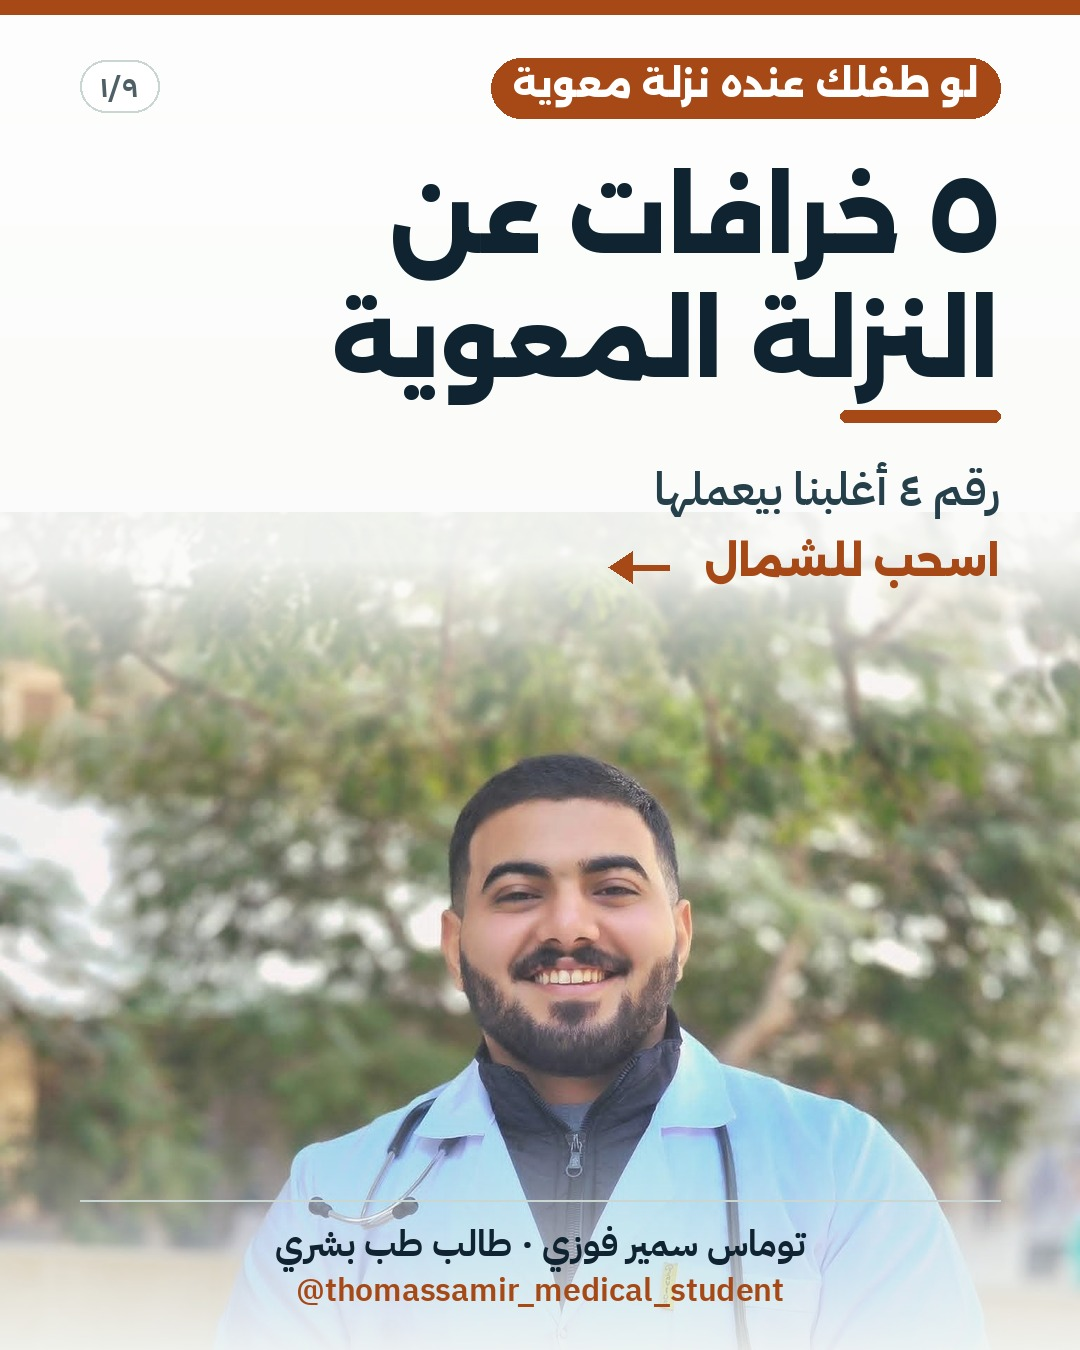
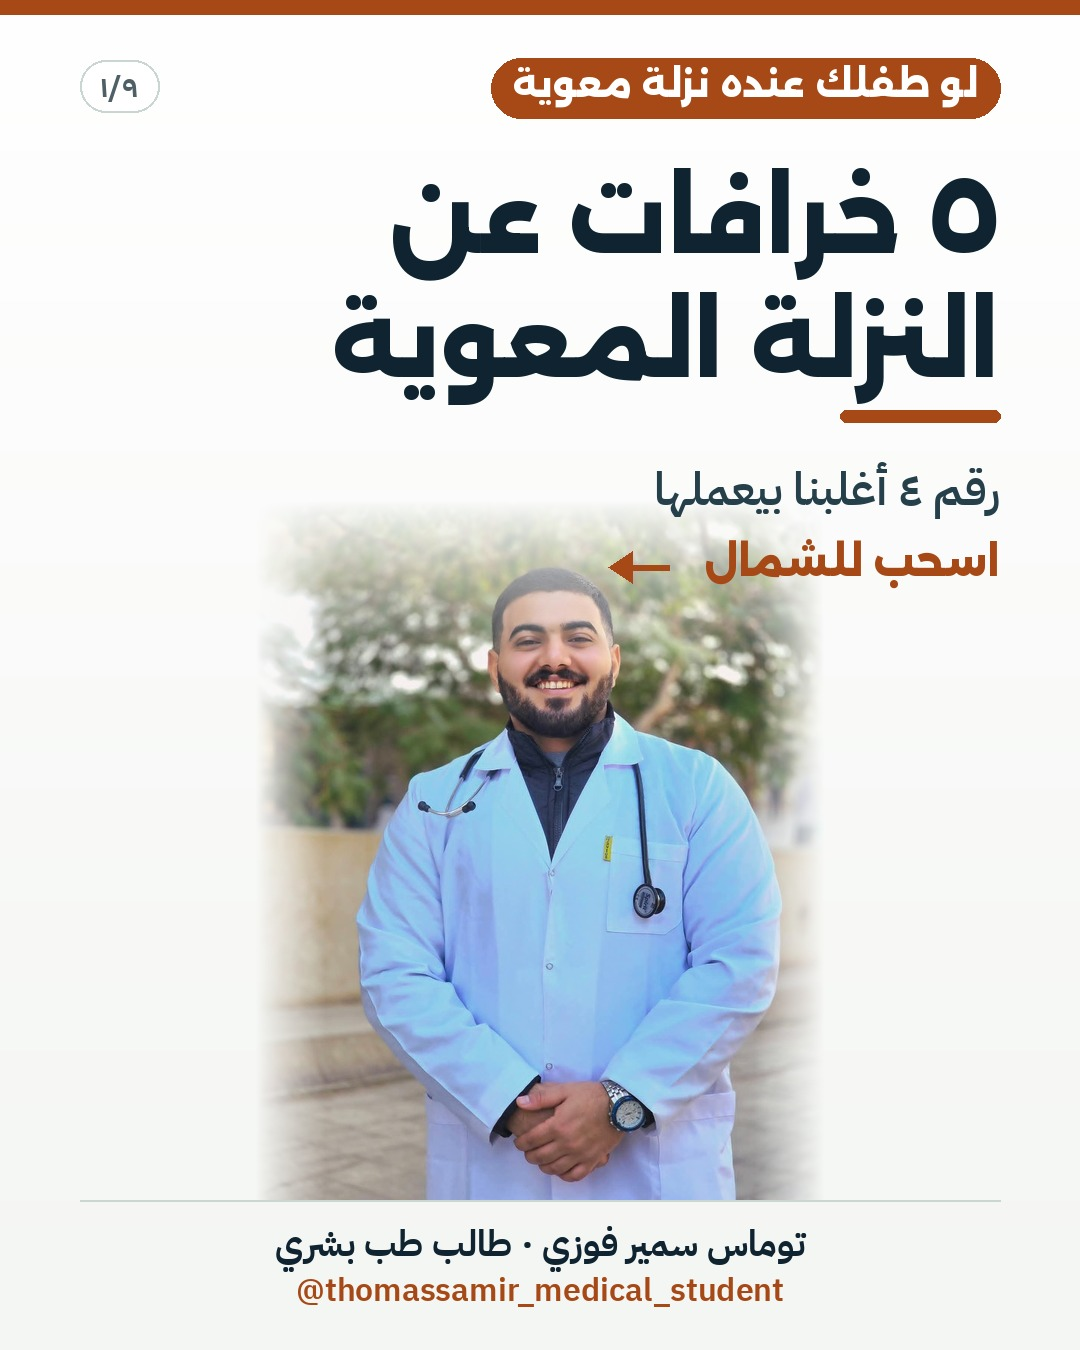
Classic cover shows the full photo (user feedback); re-render 2026-11-17
Claude-Session: https://claude.ai/code/session_017dDxhPjT8UjMzskDG5aLTi

diff --git a/tools/make_carousel.py b/tools/make_carousel.py
@@ -469,22 +469,29 @@ def cover_classic(s, i, n):
         d.line([(0, yy), (W, yy)], fill=mix(WHITE, PAPER, yy / H))
     ph = _photo()
     if ph is not None:
-        ph = ph.resize((W, int(ph.height * W / ph.width)), Image.LANCZOS)
-        layer = Image.new("RGB", (W, H), PAPER)
-        layer.paste(ph, (0, 900 - int(ph.height * 0.27)))
-        mask = Image.new("L", (W, H))
+        # FULL photo (user request 2026-11-16: "حاطين نص صورتي"): show Thomas from head to hands,
+        # scaled to fit the band between the text block and the footer, edges feathered into the ground.
+        top_y = int(os.environ.get("POST_COVER_PHOTO_TOP", "500"))
+        bot_y = H - 150
+        ph = ph.crop((0, int(ph.height * 0.08), ph.width, ph.height))
+        sc = (bot_y - top_y) / ph.height
+        pw, phh = int(ph.width * sc), bot_y - top_y
+        ph = ph.resize((pw, phh), Image.LANCZOS)
+        x0 = (W - pw) // 2
+        mask = Image.new("L", (pw, phh), 255)
         md = ImageDraw.Draw(mask)
-        for yy in range(H):
-            if yy < 560:
-                a = 238
-            elif yy < 760:
-                a = int(238 - (yy - 560) / 200 * 205)
-            elif yy < 1120:
-                a = 33
-            else:
-                a = int(33 + (yy - 1120) / 230 * 200)
-            md.line([(0, yy), (W, yy)], fill=a)
-        img = Image.composite(img, layer, mask)
+        fx, fy = 70, 170
+        for k in range(fx):
+            a = int(255 * k / fx)
+            md.line([(k, 0), (k, phh)], fill=a)
+            md.line([(pw - 1 - k, 0), (pw - 1 - k, phh)], fill=a)
+        top = Image.new("L", (pw, phh), 255)
+        tdr = ImageDraw.Draw(top)
+        for k in range(fy):
+            tdr.line([(0, k), (pw, k)], fill=int(255 * k / fy))
+        from PIL import ImageChops
+        mask = ImageChops.multiply(mask, top)
+        img.paste(ph, (x0, top_y), mask)
         d = ImageDraw.Draw(img)
     d.rectangle([0, 0, W, 14], fill=ACC)
     # counter pill (top-left) and kicker pill (top-right)

diff --git a/performance.md b/performance.md
@@ -90,3 +90,4 @@ Shares are not returned by Metricool (null). The 15 Nov flu-vaccine quiz (sent f
 - 2026-11-14 run (for Sun 15 Nov): 8 posts in the 14-day window. Best recent: acne myth-vs-fact (youth, Thu 21:08) 14.0 on 86 reach; diabetic-foot (older) now has **3 comments** (12.8) — the first older-audience comments since October, so habit/number asks work for older too; measles timeline 12.6 with a follow. Kids-diabetes (posted 00:19) and the chest-pain post (14:11) are too new. Saves and shares are still zero for 3+ weeks. → Sun 15 Nov = older at 11:00 (reach slot), seasonal flu-vaccine quiz (MoH warned on 5 Nov about flu complications in older adults); experiment = question printed above each verdict + first data/bars 'مكنتش أعرف' slide to push saves.
 - 2026-11-15 run (for Mon 16 Nov): 9 posts in the 14-day window. Best recent: youth acne myths at Thu 21:10 (14.1, best like rate 14%); measles timeline 12.4 with a follow; diabetic foot keeps the only recent comments (3). After-midnight posts (00:20, 01:19, 01:20) and the Saturday-night older post stay weakest (7.6–10.8). Saves still 0 for 3 weeks. → youth at 21:00 with the 'عدّ معايا' mistakes format (headphones, WHO) + experiment: a do-it-now action on slide 2 to lift saves/comments; compare with the acne post.
 - 2026-11-16 run (for Tue 17 Nov): 9 posts with data. Best recent stays the youth acne myth-vs-fact (Thu 21:10, 14.4) then the parents measles timeline (Mon 22:05, 12.2, 1 follow); weakest are after-midnight and Saturday posts (7.6–9.6). The flu-vaccine post seems unpublished; headphones (Sun 22:13) is 1 day old (8.3). → Tue 17 Nov = parents (rotation: youth 16th, older 15th) at 21:00, repeating the winning myth-vs-fact angle with the crossed-out myth slide on a seasonal parent topic (winter stomach bug, NHS); experiment = one-word either/or comment ask ('عصير ولا محلول؟') since saves are still 0 and comments only come from easy asks.
+- 2026-11-16 (user feedback): 'حاطين نص صورتي' → the classic cover now shows Thomas's FULL photo (head to hands), scaled into the band under the headline with feathered edges (tools/make_carousel.py cover_classic).
